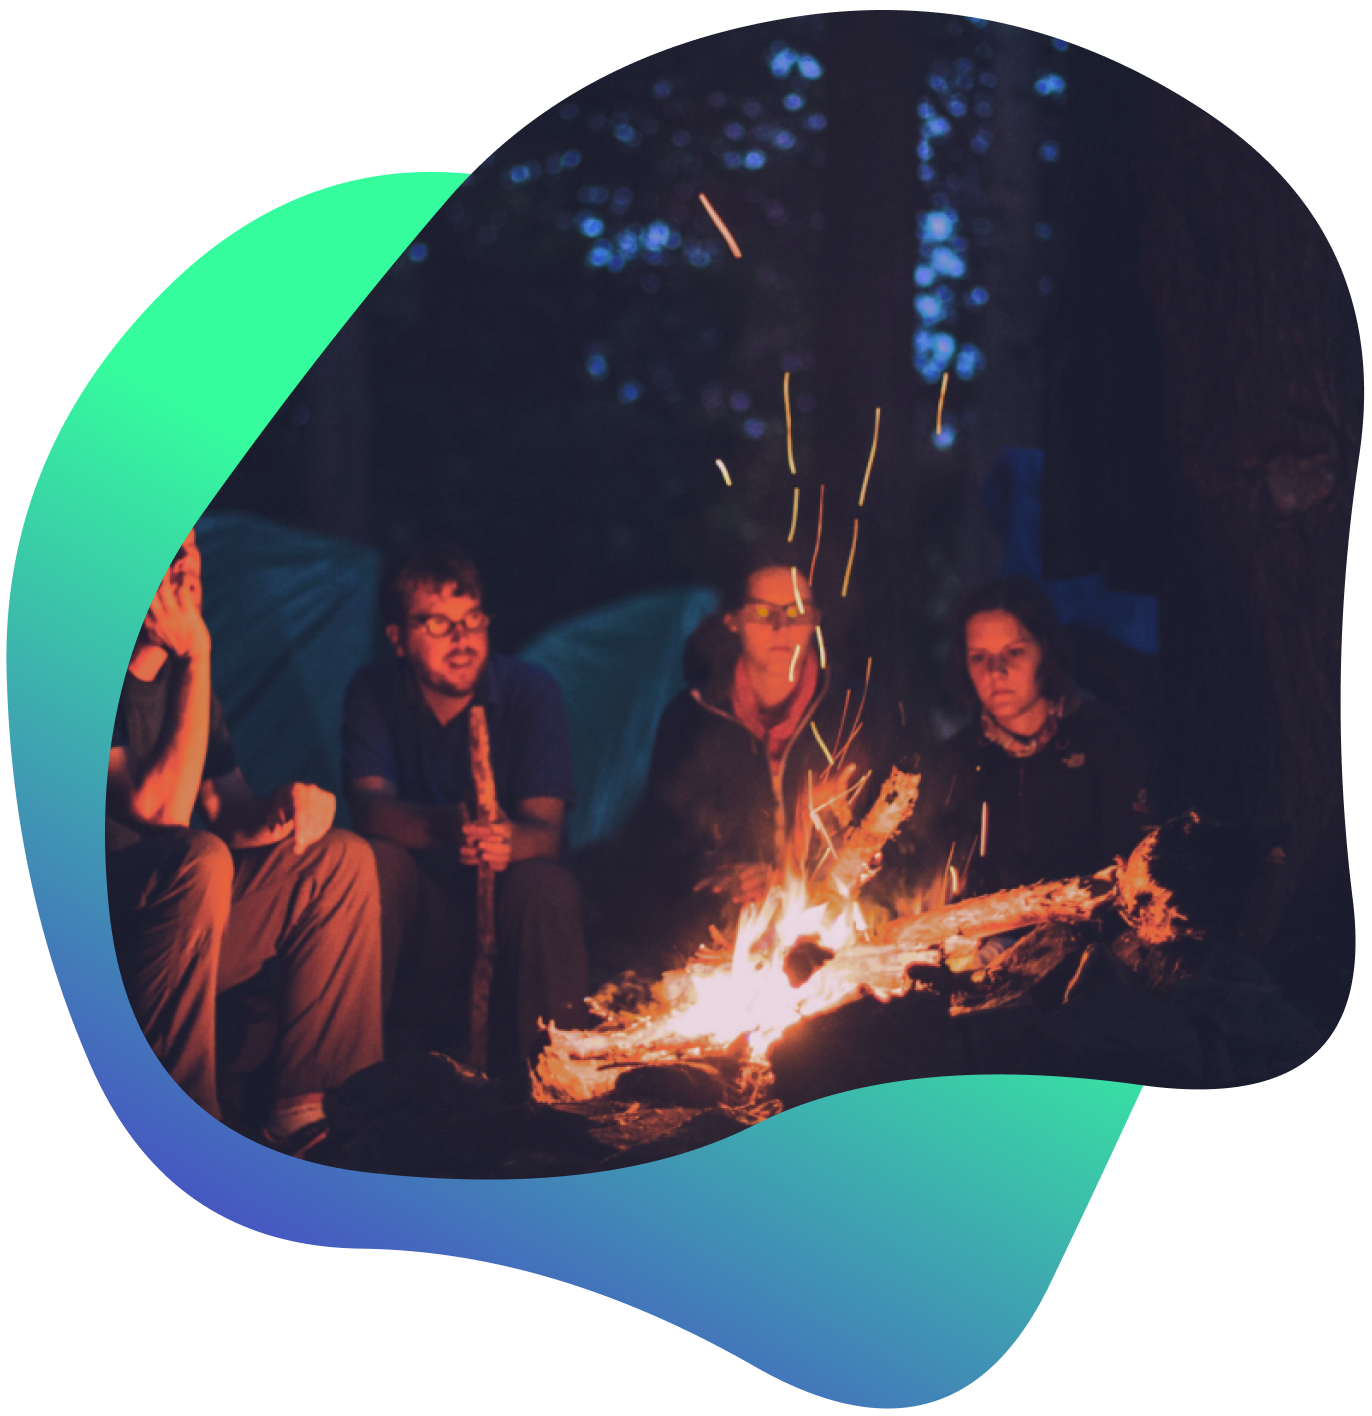
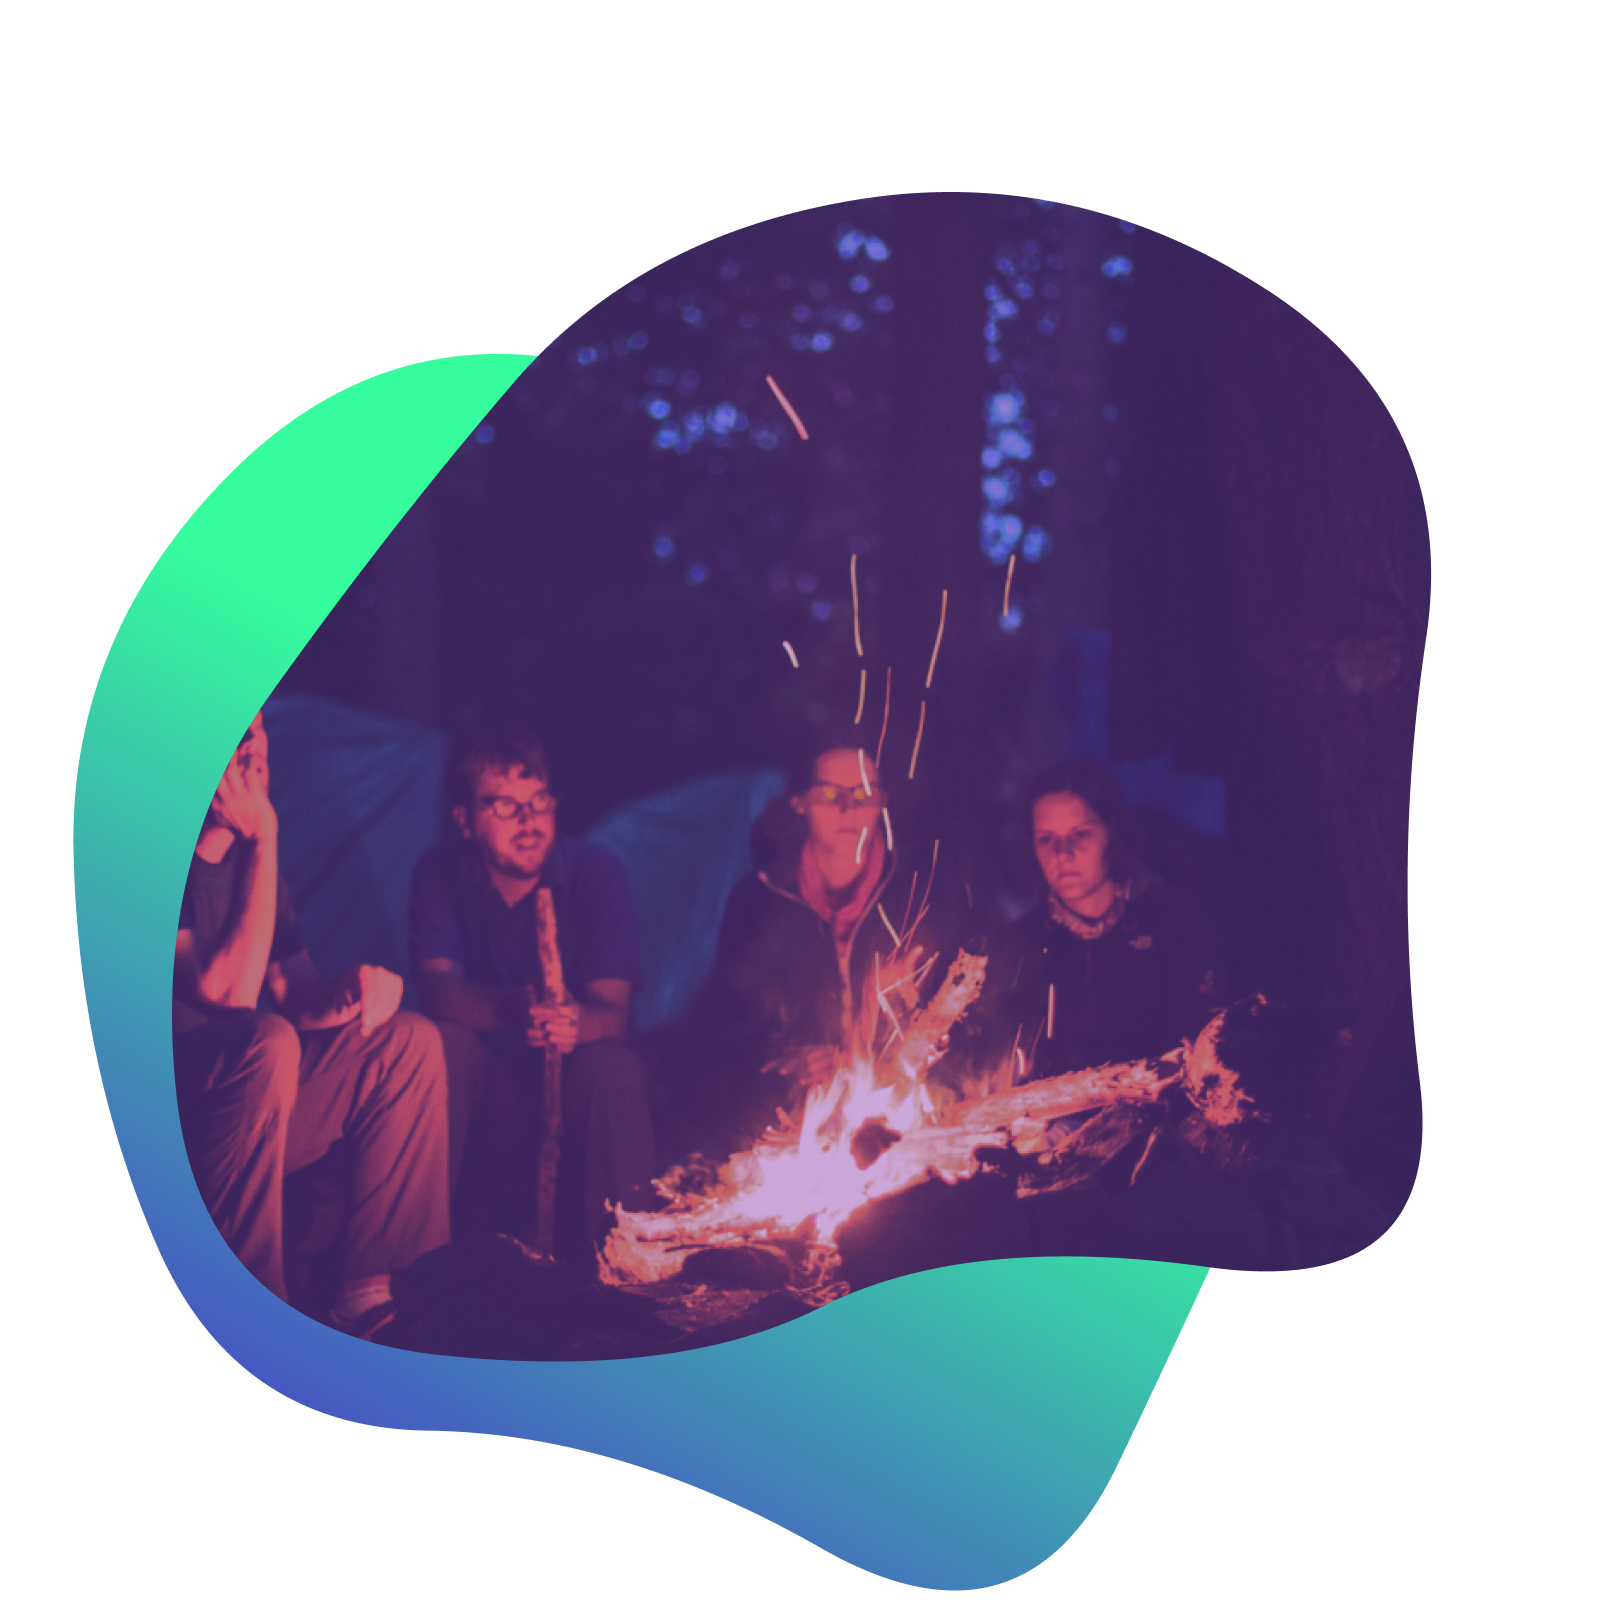
Updated blobs and minor style changing

diff --git a/script/scriptPhone.js b/script/scriptPhone.js
@@ -1,178 +1,185 @@
 // Created by Laxman Cozzarin
 
 // CONST
-const PHONE_SCREEN_W = 1000; //The width where the animation changes to the phoneAnimation or ComputerAnimation
-const SCALING_RATIO = 105; //Ratio used to scale the video
-const ROTATION_RATIO = 2; //Ratio used to rotate the video
-const STOP_ANGLE = 90; //Angle where the phone stops
+const PHONE_SCREEN_W = 1000;                                    //The width where the animation changes to the phoneAnimation or ComputerAnimation        
+const SCALING_RATIO = 105;                                      //Ratio used to scale the video 
+const ROTATION_RATIO = 2;                                       //Ratio used to rotate the video
+const STOP_ANGLE = 90;                                          //Angle where the phone stops
 
 // DOM ELEMENTS
-const spottedTitle = document.getElementById("spotted"); //Title
-const vidBackground = document.getElementById("video"); //Video in background
+const spottedTitle = document.getElementById("spotted");        //Title
+const vidBackground = document.getElementById("video");         //Video in background
 const vidDiv = document.getElementById("phoneContainer");
 
 const socialDiv = document.getElementById("social");
 const trovalDiv = document.getElementById("trova");
 
-const uniqueValuePropositionDiv = document.getElementById("valueProposition"); //Trova section to show after the animation
-const uniqueValuePropositionH1 = document.getElementById("uniqueTitle");
+const uniqueValuePropositionDiv = document.getElementById("valueProposition");          //Trova section to show after the animation
+const uniqueValuePropositionH1 = document.getElementById("uniqueTitle")
 const downloadBtnContainer = document.getElementById("downloadButtons");
 const btnAppStore = document.getElementById("appStore");
 const btnGoogleStore = document.getElementById("googleStore");
 
+
 // ANIMATION VALUES
-var windowY = 0; //Value that stores the Y offset of the scroll
-var rotationAngle = 0; //Stores the current angle of rotation of the phone
+var windowY = 0;                //Value that stores the Y offset of the scroll
+var rotationAngle = 0;          //Stores the current angle of rotation of the phone
 
 // –––––––––––––––––––––––––––––––––––––
+
+
+
 
 // On the window resize flags the function that controls the best animation based on the window inner width
-window.addEventListener("resize", setListener);
+window.addEventListener('resize', setListener);
 window.onload = setListener;
 
+
+
 // Function to understand what animation has to display based on the window inner width
-function setListener() {
-  socialDiv.style.opacity = 0;
+function setListener(){
+    socialDiv.style.opacity = 0;
 
-  if (window.innerWidth > PHONE_SCREEN_W) {
-    window.removeEventListener("scroll", mobileScrollingAnimation);
-    window.addEventListener("scroll", computerScrollingAnimation, {
-      passive: true,
-    });
+    if(window.innerWidth > PHONE_SCREEN_W){
+        window.removeEventListener('scroll', mobileScrollingAnimation);
+        window.addEventListener('scroll', computerScrollingAnimation, { passive: true }); 
 
-    vidBackground.style.borderRadius = "3vw";
-    vidBackground.style.width = "25%";
-    vidBackground.style.top = "15vh";
+        vidBackground.style.borderRadius = "4vw";
+        vidBackground.style.width = "25%";
+        vidBackground.style.top = "15vh";
+        
+        downloadContainerMarginTop(200);
 
-    downloadContainerMarginTop(200);
-  } else {
-    window.removeEventListener("scroll", computerScrollingAnimation);
-    window.addEventListener("scroll", mobileScrollingAnimation, {
-      passive: true,
-    });
+        console.log("scrolling da computer");
+    } 
+    else{
+        window.removeEventListener('scroll', computerScrollingAnimation);
+        window.addEventListener('scroll', mobileScrollingAnimation, { passive: true });
 
-    vidBackground.style.borderRadius = "5vw";
-    vidBackground.style.width = "50%";
-    vidBackground.style.top = "20.5vh";
-    downloadBtnContainer.style.marginTop = 100 + "px";
-    downloadBtnContainer.style.opacity = 1;
-  }
+        vidBackground.style.borderRadius = "7vw";
+        vidBackground.style.width = "50%";
+        vidBackground.style.top = "20.5vh";
+        downloadBtnContainer.style.marginTop = 100 +"px"
+        downloadBtnContainer.style.opacity = 1;
+
+        console.log("Scrolling da telefono");
+    }
 }
 
 // –––––––––––––––––––––––––––––––––––––
 
+
 // PHONE ANIMATION: MARGIN TOP AND SCALE + FADINGS
-function mobileScrollingAnimation() {
-  windowY = window.pageYOffset;
-  downloadBtnContainer.style.display = "block";
-  downloadBtnContainer.style =
-    "display: flex; align-items: center; flex-direction: column";
-  socialDiv.style.marginTop = vidBackground.offsetHeight + 700 + "px";
-  uniqueValuePropositionDiv.style.opacity = 0;
-  downloadBtnContainer.style.marginTop = 50 + "px";
+function mobileScrollingAnimation(){
+    windowY = window.pageYOffset;
+    downloadBtnContainer.style.display = "block";
+    downloadBtnContainer.style = "display: flex; align-items: center; flex-direction: column";
+    socialDiv.style.marginTop = vidBackground.offsetHeight + 700 + "px";
+    uniqueValuePropositionDiv.style.opacity = 0;
+    downloadBtnContainer.style.marginTop = 50 +"px";
 
-  if (windowY > -100 && windowY <= 250) {
-    animationPropertySetMobile();
-    vidBackground.style.marginTop = `${windowY * 1.2}px`;
-    vidBackground.style.clipPath = "none";
-    socialDiv.style.opacity = 0;
-  }
-  if (windowY > 250) {
-    uniqueValuePropositionDiv.style.opacity =
-      1 - (windowY - 250) / vidBackground.offsetHeight;
-    downloadBtnContainer.style.display = "none";
+    if(windowY > -100 && windowY <= 250){    
+        animationPropertySetMobile(); 
+        vidBackground.style.marginTop = `${windowY * 1.2}px`;
+        vidBackground.style.clipPath = "none";
+        socialDiv.style.opacity = 0;
+    }
+    if(windowY > 250){
+        uniqueValuePropositionDiv.style.opacity = 1 - ((windowY - 250 ) / vidBackground.offsetHeight);
+        downloadBtnContainer.style.display = "none";
+       
+        vidBackground.style.clipPath = "inset(15px 5px)";
+        vidBackground.style.transform = `scale(${230 / SCALING_RATIO}`;
 
-    vidBackground.style.clipPath = "inset(15px 5px)";
-    vidBackground.style.transform = `scale(${230 / SCALING_RATIO}`;
+        socialDiv.style.opacity = 1;
+    } 
 
-    socialDiv.style.opacity = 1;
-  }
 
-  if (1 - (windowY - 250) / vidBackground.offsetHeight <= 0)
-    uniqueValuePropositionDiv.display = "none";
-  else uniqueValuePropositionDiv.display = "block";
+    if(1 - ((windowY - 250 )/ vidBackground.offsetHeight) <= 0) uniqueValuePropositionDiv.display = "none";
+    else uniqueValuePropositionDiv.display = "block";
 }
 
-function animationPropertySetMobile() {
-  if (windowY / SCALING_RATIO > 1) {
-    rotateAndScale(vidBackground, false, true);
-    rotateAndScale(downloadBtnContainer, false, true);
-  } else {
-    vidBackground.style.transform = "scale(1)";
-    downloadBtnContainer.style.transform = "scale(1)";
-  }
-  vidBackground.play();
+function animationPropertySetMobile(){
+    if(windowY/SCALING_RATIO > 1){
+        rotateAndScale(vidBackground, false, true);
+        rotateAndScale(downloadBtnContainer, false, true);
+    }
+    else{
+        vidBackground.style.transform = "scale(1)";
+        downloadBtnContainer.style.transform = "scale(1)";
+    }
+    vidBackground.play();
 }
+
 
 // –––––––––––––––––––––––––––––––––––––
 
 // COMPUTER ANIMATION: MARGIN TOP, ROTATIONS AND SCALING + FADING
-function computerScrollingAnimation() {
-  windowY = window.pageYOffset;
-  rotationAngle = (windowY - 100) / ROTATION_RATIO;
-  downloadBtnContainer.style.opacity = 1 - windowY / SCALING_RATIO;
-  vidBackground.style.clipPath = "none";
-  if (windowY >= -100 && windowY <= getPageYOffesetFromAngle(STOP_ANGLE)) {
-    vidBackground.style.marginTop = `${windowY}px`;
-    downloadContainerMarginTop(200);
-    animationPropertySet();
-    uniqueValuePropositionDiv.style.display = "none";
-    socialDiv.style.opacity = 0;
-  }
-  if (windowY >= getPageYOffesetFromAngle(72)) {
-    if (
-      1 -
-        (windowY - getPageYOffesetFromAngle(STOP_ANGLE)) /
-          getPageYOffesetFromAngle(STOP_ANGLE) <=
-      0
-    )
-      uniqueValuePropositionDiv.style.display = "none";
-    else uniqueValuePropositionDiv.style.display = "block";
-
-    uniqueValuePropositionDiv.style.opacity =
-      1 -
-      (windowY - getPageYOffesetFromAngle(STOP_ANGLE)) /
-        getPageYOffesetFromAngle(STOP_ANGLE);
-    vidBackground.style.opacity = STOP_ANGLE / 10 - rotationAngle / 90;
-  }
-  if (windowY > getPageYOffesetFromAngle(STOP_ANGLE)) {
-    vidBackground.style.transform = `rotate(${-90}deg) scale(${
-      getPageYOffesetFromAngle(STOP_ANGLE) / SCALING_RATIO
-    })`;
-    socialDiv.style.opacity = 1;
-    socialDiv.style.marginTop = vidBackground.offsetHeight * 1.2 + "px";
-    vidBackground.style.marginTop = getPageYOffesetFromAngle(90) + "px";
-    vidBackground.style.clipPath = "inset(0px 20px)";
-  }
+function computerScrollingAnimation(){
+    windowY = window.pageYOffset;
+    rotationAngle = (windowY - 100) / ROTATION_RATIO;
+    downloadBtnContainer.style.opacity = 1 -(windowY / SCALING_RATIO);
+    vidBackground.style.clipPath = "none";
+    if(windowY >= -100 && windowY <= getPageYOffesetFromAngle(STOP_ANGLE)){
+        vidBackground.style.marginTop = `${windowY}px`;
+        downloadContainerMarginTop(200);
+        animationPropertySet();
+        uniqueValuePropositionDiv.style.display = "none";
+        socialDiv.style.opacity = 0;
+    }   
+    if(windowY >= getPageYOffesetFromAngle(72)){
+        if(1 - ((windowY - getPageYOffesetFromAngle(STOP_ANGLE))  / getPageYOffesetFromAngle(STOP_ANGLE)) <= 0) uniqueValuePropositionDiv.style.display = "none";
+        else uniqueValuePropositionDiv.style.display = "block";
+    
+        uniqueValuePropositionDiv.style.opacity = 1 - ((windowY - getPageYOffesetFromAngle(STOP_ANGLE))  / getPageYOffesetFromAngle(STOP_ANGLE));
+        vidBackground.style.opacity = (STOP_ANGLE / 10 - rotationAngle / 90);
+    }
+    if(windowY > getPageYOffesetFromAngle(STOP_ANGLE)){
+        vidBackground.style.transform = `rotate(${-90}deg) scale(${getPageYOffesetFromAngle(STOP_ANGLE) / SCALING_RATIO})`;
+        socialDiv.style.opacity = 1;
+        socialDiv.style.marginTop = vidBackground.offsetHeight * 1.2 + "px";
+        vidBackground.style.marginTop = getPageYOffesetFromAngle(90) + "px";
+        vidBackground.style.clipPath = "inset(0px 20px)";
+    }
 }
 
-function downloadContainerMarginTop(offset) {
-  downloadBtnContainer.style.marginTop = `${
-    windowY - vidBackground.offsetHeight + offset
-  }px`;
+function downloadContainerMarginTop(offset){
+    downloadBtnContainer.style.marginTop = `${windowY - vidBackground.offsetHeight + offset }px`;
+    console.log(downloadBtnContainer.style.marginTop)
 }
 
 // RETURNS THE PAGEY WITH THE ANGLE (REVERSE FORMULA)
-function getPageYOffesetFromAngle(angle) {
-  return angle * ROTATION_RATIO + 100;
-}
+function getPageYOffesetFromAngle(angle){ return (angle * ROTATION_RATIO) + 100; }
 
 // SET THE PROPERTY FOR THE ANIMATION
-function animationPropertySet() {
-  if (rotationAngle >= 0) {
-    if (windowY / SCALING_RATIO > 1) rotateAndScale(vidBackground, true, true);
-    else rotateAndScale(vidBackground, true, false);
-  } else vidBackground.style.transform = "rotate(0deg) scale(1)";
+function animationPropertySet(){     
+    if(rotationAngle >= 0){
+        if(windowY / SCALING_RATIO > 1) rotateAndScale(vidBackground, true, true);
+        else rotateAndScale(vidBackground, true, false);
+    }
+    else vidBackground.style.transform = "rotate(0deg) scale(1)";
 }
 
 // ROTATE AND SCALES THE ELEMENT
-function rotateAndScale(elem, rotate, scale) {
-  windowY = window.pageYOffset;
-  if (rotate && scale)
-    elem.style.transform = `rotate(${-rotationAngle}deg) scale(${
-      windowY / SCALING_RATIO
-    })`;
-  if (rotate && !scale) elem.style.transform = `rotate(${-rotationAngle}deg)`;
-  if (!rotate && scale)
-    elem.style.transform = `scale(${windowY / SCALING_RATIO})`;
+function rotateAndScale(elem, rotate, scale){ 
+    windowY = window.pageYOffset;
+    if(rotate && scale) elem.style.transform = `rotate(${-rotationAngle}deg) scale(${windowY / SCALING_RATIO})`;
+    if(rotate && !scale) elem.style.transform = `rotate(${-rotationAngle}deg)`;
+    if(!rotate && scale) elem.style.transform = `scale(${windowY / SCALING_RATIO})`;
 }
+
+
+
+
+
+
+
+
+
+
+
+
+
+
+
+

diff --git a/style/style.css b/style/style.css
@@ -138,7 +138,6 @@ main {
   background-position: center;
   background-color: transparent;
   border: none;
-  cursor: pointer;
 }
 #downloadButtons {
   position: relative;
@@ -530,6 +529,10 @@ footer {
     height: 4rem;
     width: 4rem;
   }
+
+  input[type="submit"] {
+    background-size: 100% 100% !important;
+  }
 }
 
 .purpleText {
@@ -589,22 +592,19 @@ input[type="submit"] {
   width: 200px;
   color: white;
   border: none;
-  background: rgb(181, 77, 199);
-  background: -moz-linear-gradient(
-    90deg,
-    rgba(181, 77, 199, 1) 0%,
-    rgba(135, 74, 136, 1) 72%
-  );
-  background: -webkit-linear-gradient(
-    90deg,
-    rgba(181, 77, 199, 1) 0%,
-    rgba(135, 74, 136, 1) 72%
-  );
-  background: linear-gradient(
-    90deg,
-    rgba(181, 77, 199, 1) 0%,
-    rgba(135, 74, 136, 1) 72%
-  );
+
+  cursor: pointer;
+
+  background-color: #be36c8;
+  background-image: linear-gradient(170deg, #be36c8 0%, #5b36c8 72%);
+  background-image: -moz-linear-gradient(170deg, #be36c8 0%, #5b36c8 72%);
+  background-image: -webkit-linear-gradient(170deg, #be36c8 0%, #5b36c8 72%);
+  background-repeat: no-repeat;
+  background-size: 0 100%;
+  transition: 0.4s ease-in;
+}
+input[type="submit"]:hover {
+  background-size: 100% 100%;
 }
 .subTerm {
   color: gray;

diff --git a/it/index.html b/it/index.html
@@ -119,8 +119,8 @@
           </div>
           <div class="section valueProposition" id="valueProposition">
             <div class="valueText" id="uniqueTitle">
-              <h2>Quando cerchi ma non sai dov’è,</h2>
-              <h1>è <span class="purpleText">Spotted</span></h1>
+              <h2>Inizia tutto con</h2>
+              <h1><span class="purpleText">Spotto</span>...</h1>
             </div>
           </div>
         </div>
@@ -179,7 +179,7 @@
                 alt="Spotted app: image of people around a camp fire"
                 loading="lazy"
               />
-              <h3>Un compagno di avventure</h3>
+              <h3>Compagni di avventure</h3>
             </div>
             <div class="imgWithDescription">
               <img
